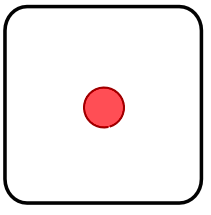
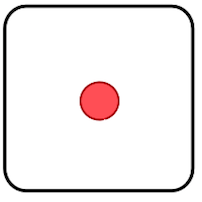
adjust dice size and position

diff --git a/src/snakes.css b/src/snakes.css
@@ -23,9 +23,9 @@
   background-color: blue;
   display: inline-block;
 }
-.cell:nth-of-type(2n+1){
+/* .cell:nth-of-type(2n+1){
   background-color: white;
-}
+} */
 .board-wrap{
   position: absolute;
   font-size: 0;
@@ -128,3 +128,8 @@ p{
 }
 
 .button-new-game:hover {background-color: orange}
+
+.dice{
+  margin: 4px 2px;
+  padding: 15px 32px;
+}

diff --git a/src/NewGame.js b/src/NewGame.js
@@ -4,7 +4,6 @@ import "./snakes.css"
 
 const NewGame = ( props ) =>{
 
-
   return(
     <div className="new-game" >
         <button  className="button-new-game" type="button" onClick={props.newGame} > New Game </button>

diff --git a/src/ShowDice.js b/src/ShowDice.js
@@ -24,10 +24,9 @@ class ShowDice extends Component {
 
     return(
 
-    <div>
+    <div className="dice">
       {checkValue()}
-
-  </div>
+    </div>
     )
   }
 }
